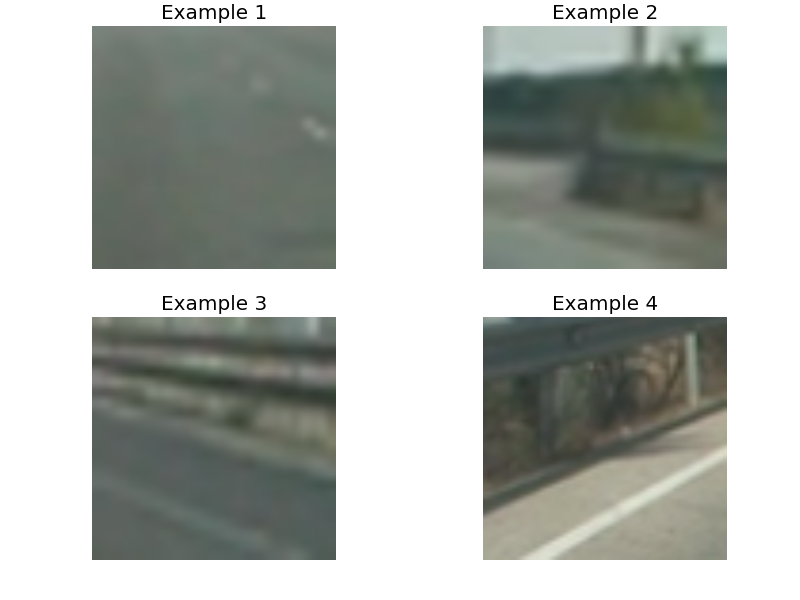
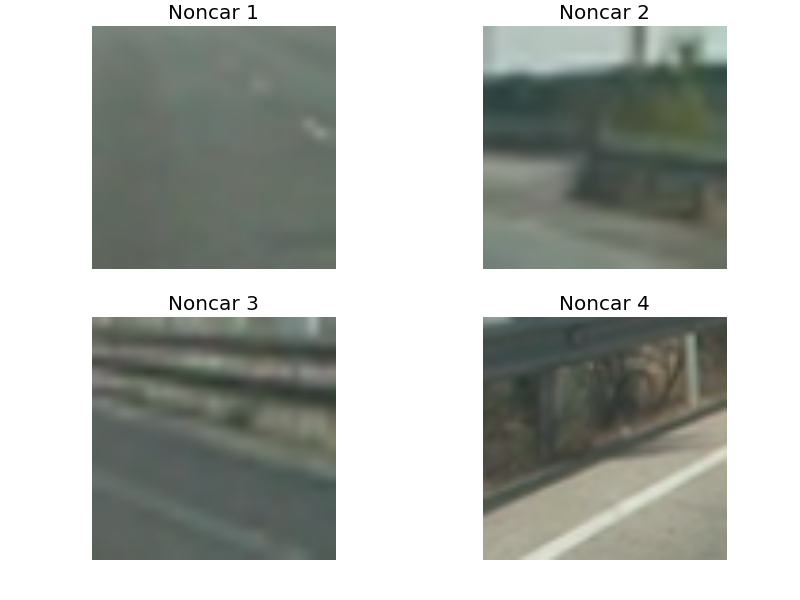
update image assets

diff --git a/src/exploratory.py b/src/exploratory.py
@@ -12,7 +12,7 @@ vehicle_names = [vehicle_names_left[0], vehicle_names_right[0], vehicle_names_mi
 
 nonvehicle_names = glob.glob('../data/model/raw/non-vehicles/GTI/image*.png')[:4]
 nonvehicle_images = [plt.imread(nonvehicle_name) for nonvehicle_name in nonvehicle_names]
-nonvehicle_labels = ["Example 1", "Example 2", "Example 3", "Example 4"]
+nonvehicle_labels = ["Noncar 1", "Noncar 2", "Noncar 3", "Noncar 4"]
 
 vehicle_labels = ["Left", "Right", "Middle", "Far"]
 
@@ -32,8 +32,8 @@ def plot_car_images():
 		ax.set_title(label)
 		ax.axis('off')
 
-	plt.show()
-	#plt.savefig('../readme_assets/image.png')
+	#plt.show()
+	plt.savefig('../readme_assets/image.png')
 
 def plot_noncar_images():
 	fig, axes = plt.subplots(nrows = 2, ncols = 2)
@@ -45,8 +45,8 @@ def plot_noncar_images():
 		ax.set_title(label)
 		ax.axis('off')
 
-	plt.show()
-	#plt.savefig('../readme_assets/image.png')
+	#plt.show()
+	plt.savefig('../readme_assets/image.png')
 
 
 def plot_all(images, labels=True):
@@ -62,7 +62,7 @@ def plot_all(images, labels=True):
 	plt.savefig('../readme_assets/image.png')
 	
 #plot_car_images()
-#plot_noncar_images()
+plot_noncar_images()
 #plot_all(hog_images)
 
 

diff --git a/README.md b/README.md
@@ -31,7 +31,7 @@ The project includes the following files:
 
 ### Data 
 
-Our raw data consists of 64x64 images which are labeled as either car or not car. Car images further break down into images from the left, from, middle, and far. In total there 10,885 samples, of which 1,917 (17.6%) are labeled as car, and the remainder (82.4%) are labeled as not car. We're going to start by extracting features from this data. Below are examples of car images and noncar images. 
+The raw data consists of 64x64 images which are labeled as either car or not car. Car images further break down into images from the left, right, middle, and far. In total there 10,885 samples, of which 1,917 (17.6%) are labeled as car, and the remainder (82.4%) are labeled as not car. We're going to start by extracting features from this data. Below are examples of car images and noncar images. 
 
 ![alt text][image1]
 
